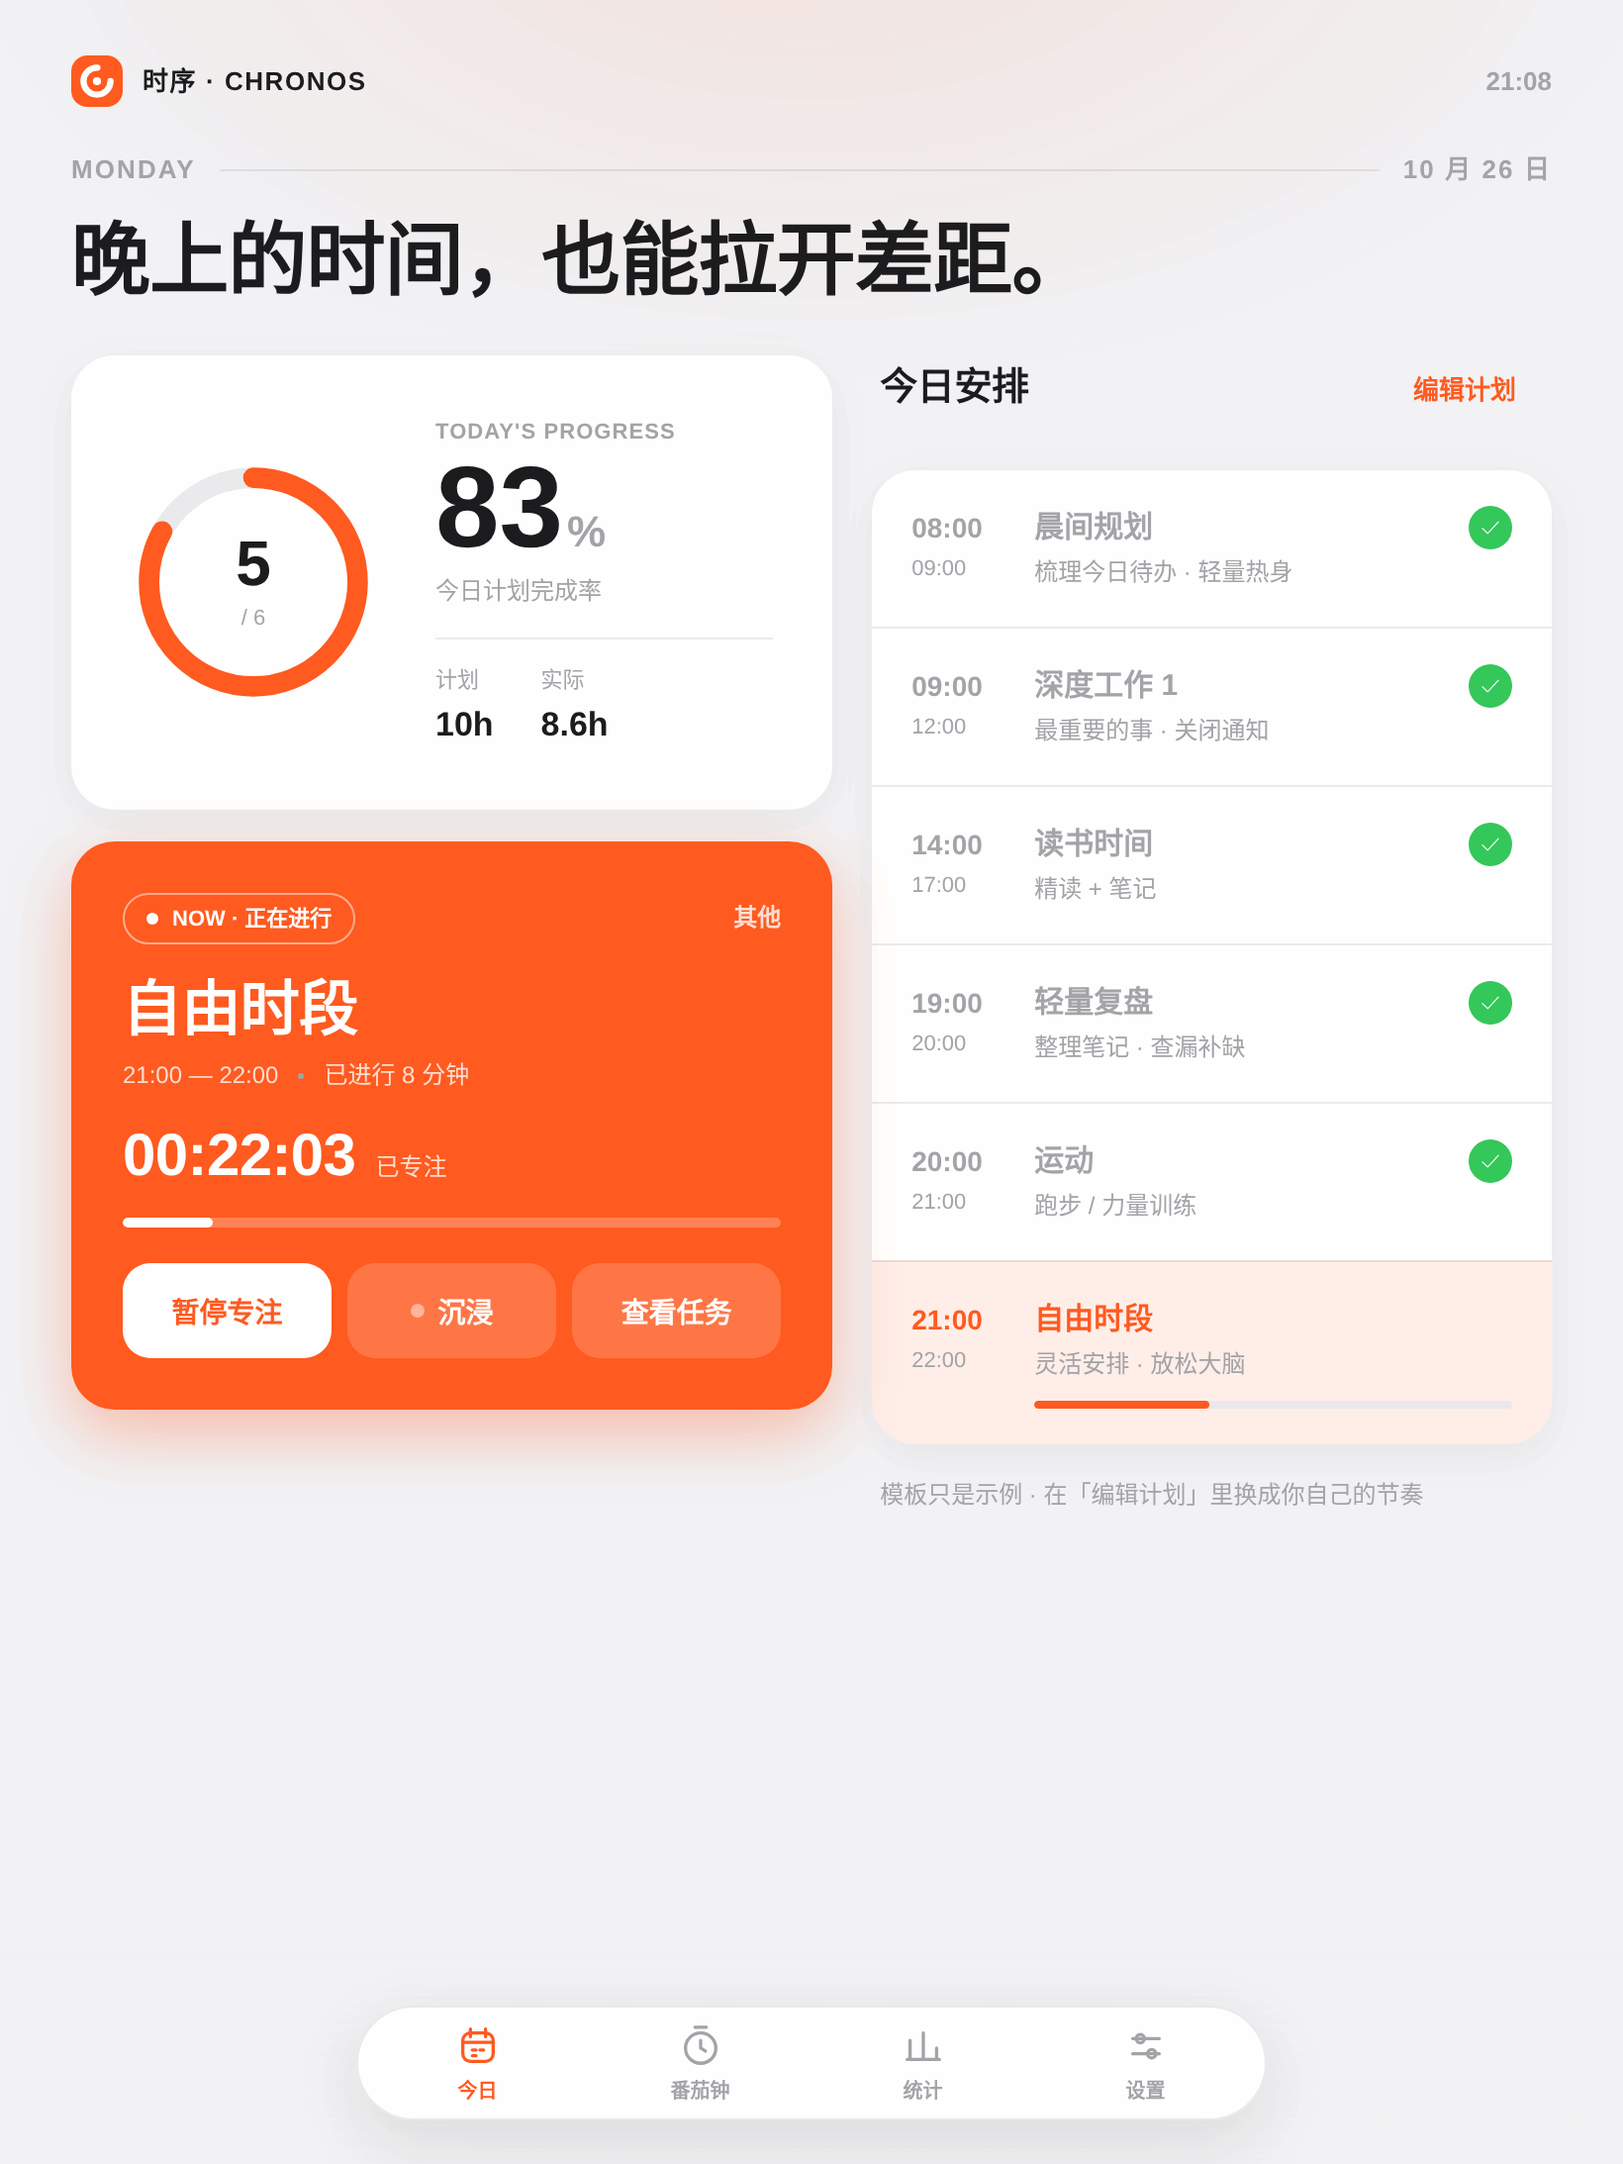
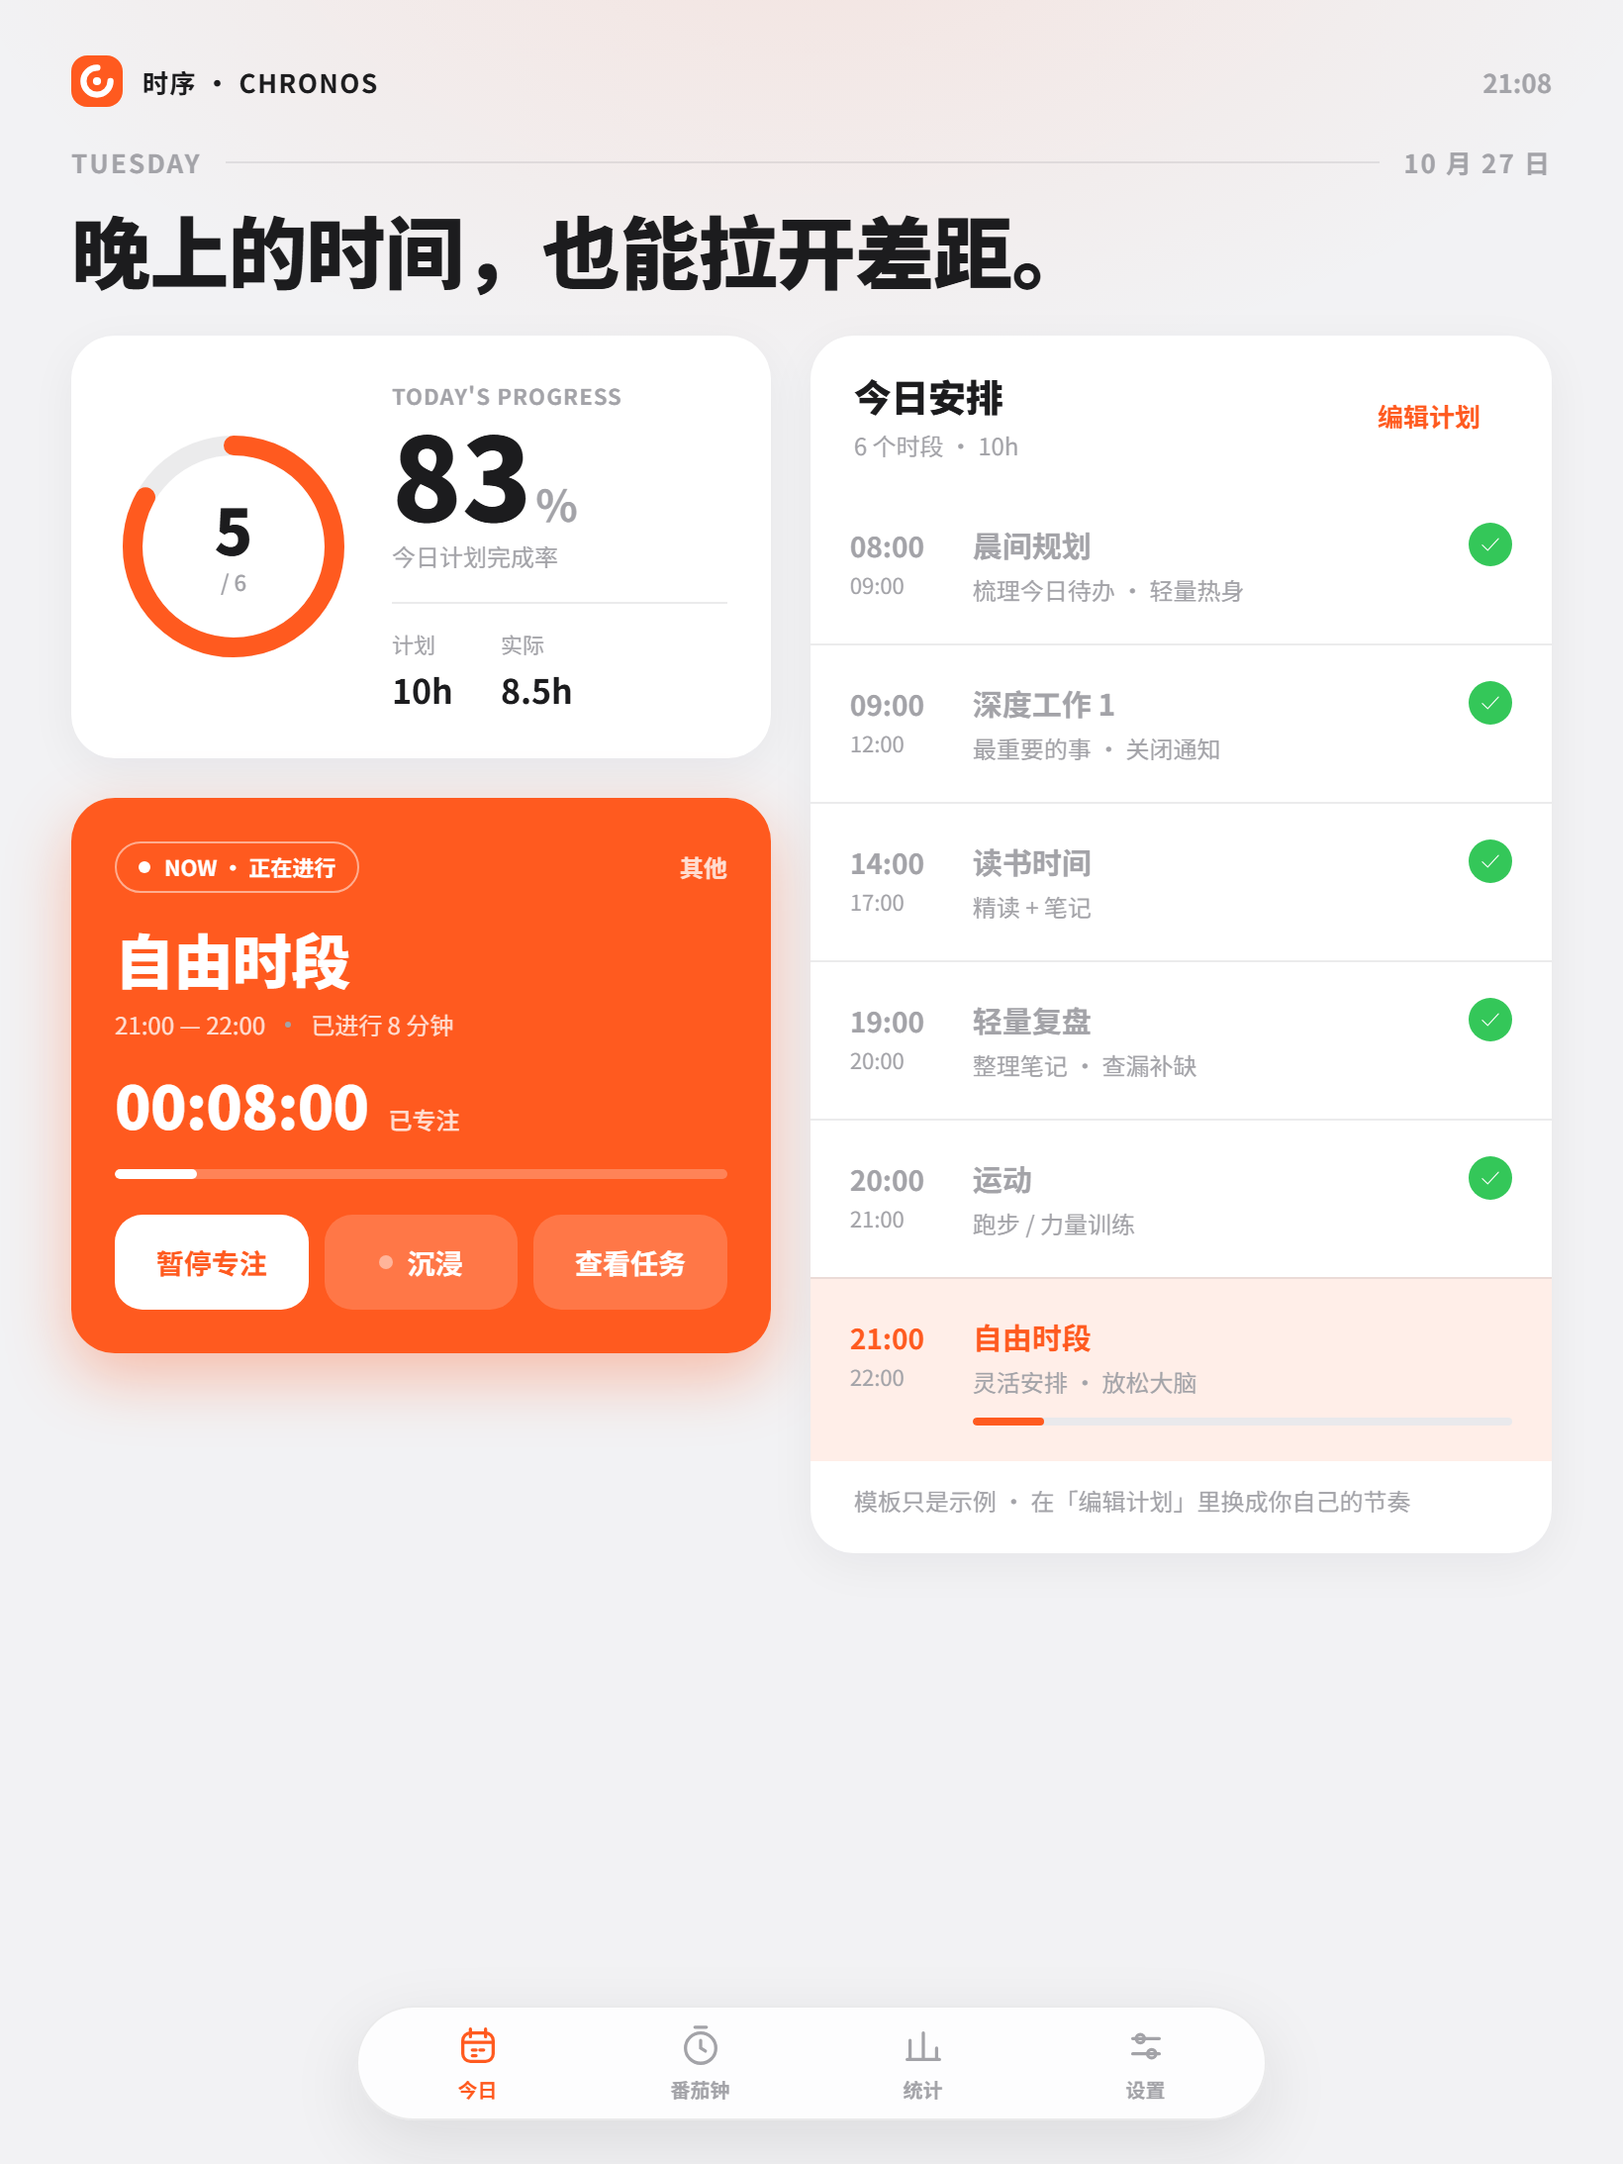
2.6.2：首页卡片布局重排，修复 APK assets 路径
- 「今日安排」标题收进卡片，平板两列卡片从同一条基线开始，卡片内边距/间距统一
- 小屏压缩进度卡并调整标题字号，首屏即可看到今日安排；空计划有占位提示
- 修复 Windows 版 aapt2 将 assets 写成反斜杠、WebView 报 ERR_FILE_NOT_FOUND：改用 jar 打包 assets，同时去掉对 zip 的依赖
- 版本 2.6.2 / versionCode 17

diff --git a/app/src/main/assets/www/styles.css b/app/src/main/assets/www/styles.css
@@ -39,6 +39,10 @@
   --ease: cubic-bezier(.32, .72, 0, 1);
   --spring: cubic-bezier(.34, 1.42, .64, 1);
   --maxw: 1160px;
+
+  /* 首页统一的卡片内边距与卡片间距：所有卡片/行共用，保证左边缘与节奏一致 */
+  --pad-card: 20px;
+  --gap-card: 16px;
 }
 
 [data-theme="dark"] {
@@ -154,7 +158,7 @@ body:not(.motion) .pages { transition: none; }
 .live-clock { margin-left: auto; font-size: 13px; font-weight: 600; color: var(--ink-3); font-variant-numeric: tabular-nums; }
 
 .date-line {
-  margin-top: 22px;
+  margin-top: 18px;
   display: flex; align-items: center; gap: 12px;
   font-size: 13px; font-weight: 600;
   color: var(--ink-3);
@@ -163,8 +167,8 @@ body:not(.motion) .pages { transition: none; }
 .date-line .sep { flex: 1; height: 1px; background: var(--hairline); }
 
 .home-head h1 {
-  margin: 10px 0 22px;
-  font-size: clamp(26px, 6.5vw, 34px);
+  margin: 8px 0 18px;
+  font-size: clamp(24px, 6.4vw, 34px);
   font-weight: 800;
   line-height: 1.3;
   letter-spacing: -.01em;
@@ -225,8 +229,8 @@ body:not(.motion) .pages { transition: none; }
 .ghost-btn:active { transform: scale(.95); }
 
 /* ============ 今日 · 进度卡 ============ */
-.progress-card { display: flex; align-items: center; gap: 24px; padding: 24px; }
-.ring-wrap { position: relative; width: 108px; height: 108px; flex: none; }
+.progress-card { display: flex; align-items: center; gap: 20px; padding: var(--pad-card); }
+.ring-wrap { position: relative; width: 104px; height: 104px; flex: none; }
 .ring { width: 100%; height: 100%; transform: rotate(-90deg); }
 .ring circle { fill: none; }
 .ring-bg { stroke: var(--hairline); stroke-width: 10; }
@@ -247,7 +251,7 @@ body:not(.motion) .pages { transition: none; }
 
 .progress-meta { flex: 1; min-width: 0; }
 .progress-meta .big {
-  font-size: 50px; font-weight: 800; line-height: 1.05; color: var(--ink);
+  font-size: clamp(40px, 12vw, 50px); font-weight: 800; line-height: 1.05; color: var(--ink);
   font-variant-numeric: tabular-nums;
 }
 .progress-meta .big i { font-style: normal; font-size: 22px; font-weight: 600; color: var(--ink-3); margin-left: 2px; }
@@ -261,7 +265,7 @@ body:not(.motion) .pages { transition: none; }
 .micro-stats b { display: block; font-size: 17px; font-weight: 700; color: var(--ink); margin-top: 2px; font-variant-numeric: tabular-nums; }
 
 /* ============ 今日 · 当前任务卡 ============ */
-#nowCard, .focus-mini { padding: 20px; }
+#nowCard, .focus-mini { padding: var(--pad-card); }
 .now-card { transition: background .3s var(--ease), box-shadow .3s var(--ease); }
 .now-card.is-lit {
   background: var(--accent);
@@ -320,6 +324,21 @@ body:not(.motion) .pages { transition: none; }
 .now-empty h3 { margin: 10px 0 4px; font-size: 16px; font-weight: 700; color: var(--ink); }
 .now-empty p { margin: 0; font-size: 13px; color: var(--ink-3); line-height: 1.6; }
 
+/* 小屏：进度卡收成一行，别把「今日安排」挤到折叠线以下 */
+@media (max-width: 520px) {
+  .progress-card { padding: 16px; gap: 14px; }
+  .ring-wrap { width: 84px; height: 84px; }
+  .ring-center b { font-size: 24px; }
+  .ring-center span { font-size: 10px; margin-top: 1px; }
+  .progress-meta .big { font-size: 40px; }
+  .progress-meta .big i { font-size: 18px; }
+  .progress-meta .sub { font-size: 11px; margin-top: 2px; }
+  .micro-stats { margin-top: 8px; padding-top: 8px; gap: 18px; }
+  .micro-stats i { font-size: 10px; }
+  .micro-stats b { font-size: 15px; }
+  .schedule-head { padding-top: 14px; padding-bottom: 10px; }
+}
+
 /* ============ 今日 · 专注迷你卡（番茄 + 极度沉浸） ============ */
 .focus-mini { display: flex; flex-direction: column; gap: 14px; }
 .fm-head { display: flex; align-items: flex-start; justify-content: space-between; gap: 12px; }
@@ -362,22 +381,23 @@ body:not(.motion) .pages { transition: none; }
 .fm-actions .btn-ghost { flex: 1; }
 
 /* ============ 今日 · 布局 ============ */
-.home-grid, .home-main, .home-side { display: flex; flex-direction: column; gap: 16px; }
+.home-grid, .home-main, .home-side { display: flex; flex-direction: column; gap: var(--gap-card); }
 .home-grid { max-width: var(--maxw); margin: 0 auto; }
 
-.section-head { display: flex; align-items: center; justify-content: space-between; padding: 0 4px 10px; }
-.section-head h2 { margin: 0; font-size: 19px; font-weight: 800; letter-spacing: -.01em; }
-.footnote { padding: 0 4px; font-size: 12px; color: var(--ink-3); line-height: 1.7; }
+/* 今日安排：标题与列表同卡，平板下两列卡片从同一条基线开始 */
+.schedule-card { overflow: hidden; padding: 0; }
+.schedule-head {
+  display: flex; align-items: center; justify-content: space-between; gap: 14px;
+  padding: 16px var(--pad-card) 12px;
+}
+.schedule-title { min-width: 0; }
+.schedule-head h2 { margin: 0; font-size: 19px; font-weight: 800; letter-spacing: -.01em; }
+.schedule-meta { margin-top: 2px; font-size: 12px; color: var(--ink-3); }
+.footnote { padding: 10px var(--pad-card) 16px; font-size: 12px; color: var(--ink-3); line-height: 1.7; }
 
 /* ============ 今日 · 时间线（iOS 分组列表） ============ */
-.timeline {
-  background: var(--card);
-  border-radius: var(--r-card);
-  box-shadow: var(--shadow);
-  overflow: hidden;
-}
-[data-theme="dark"] .timeline { border: 1px solid var(--hairline); box-shadow: none; }
-.tl-item { position: relative; display: flex; gap: 14px; padding: 15px 18px; cursor: pointer; transition: background .15s; }
+.timeline { overflow: hidden; }
+.tl-item { position: relative; display: flex; gap: 14px; padding: 15px var(--pad-card); cursor: pointer; transition: background .15s; }
 .tl-item:active { background: var(--card-2); }
 .tl-item + .tl-item { border-top: 1px solid var(--hairline); }
 .tl-time { flex: none; width: 48px; padding-top: 1px; }
@@ -975,8 +995,9 @@ body:not(.motion) .sheet-panel, body:not(.motion) .sheet-backdrop { transition: 
 }
 
 @media (min-width: 760px) and (min-height: 600px) {
+  :root { --pad-card: 22px; --gap-card: 20px; }
   .scroll { padding: calc(var(--sat) + 28px) 36px calc(var(--sab) + 128px); }
-  .home-grid { display: grid; grid-template-columns: 1.12fr 1fr; gap: 20px; align-items: start; }
+  .home-grid { display: grid; grid-template-columns: 1fr 1.06fr; gap: var(--gap-card); align-items: start; }
   .focus-grid { display: grid; grid-template-columns: 1.05fr 1fr; gap: 20px; align-items: start; }
   .stats-grid { display: grid; grid-template-columns: 1fr 1fr; gap: 18px; }
   .stats-grid .span-2, .stat-hero { grid-column: span 2; }
@@ -1020,11 +1041,9 @@ body:not(.motion) .sheet-panel, body:not(.motion) .sheet-backdrop { transition: 
 @media (min-width: 760px) and (min-height: 900px) {
   html, body { font-size: 15px; }
   .home-head h1 { font-size: 40px; }
-  .progress-card { padding: 30px; gap: 30px; }
-  .ring-wrap { width: 124px; height: 124px; }
+  .ring-wrap { width: 120px; height: 120px; }
   .ring-center b { font-size: 32px; }
   .progress-meta .big { font-size: 58px; }
-  #nowCard, .focus-mini { padding: 26px; }
   .now-title { font-size: 30px; }
   .now-timer b { font-size: 48px; }
   .tl-item { padding: 18px 20px; }

diff --git a/app/src/main/assets/www/index.html b/app/src/main/assets/www/index.html
@@ -64,12 +64,17 @@
           </div>
 
           <div class="home-side">
-            <div class="section-head">
-              <h2>今日安排</h2>
-              <button class="ghost-btn" id="editPlanBtn">编辑计划</button>
-            </div>
-            <div class="timeline" id="timeline"></div>
-            <div class="footnote" id="footnote">模板只是示例 · 在「编辑计划」里换成你自己的节奏</div>
+            <section class="schedule-card glass">
+              <div class="schedule-head">
+                <div class="schedule-title">
+                  <h2>今日安排</h2>
+                  <div class="schedule-meta" id="scheduleMeta">--</div>
+                </div>
+                <button class="ghost-btn" id="editPlanBtn">编辑计划</button>
+              </div>
+              <div class="timeline" id="timeline"></div>
+              <div class="footnote" id="footnote">模板只是示例 · 在「编辑计划」里换成你自己的节奏</div>
+            </section>
           </div>
         </div>
       </div>
@@ -371,7 +376,7 @@
               </div>
               <div class="about-title">时序 · Chronos</div>
               <div class="about-sub">让每一段时间，都有明确的方向。</div>
-              <div class="about-ver" id="aboutVer">Version 2.6.1 · 个人版</div>
+              <div class="about-ver" id="aboutVer">Version 2.6.2 · 个人版</div>
               <div class="about-hint" id="envHint"></div>
             </div>
           </div>

diff --git a/app/src/main/assets/www/app.js b/app/src/main/assets/www/app.js
@@ -348,6 +348,8 @@ function renderHome() {
   const actual = tasks.reduce((a, t) => a + taskSeconds(t), 0);
   $('#planText').textContent = hText(planned);
   $('#actualText').textContent = hText(actual);
+  const scheduleMeta = $('#scheduleMeta');
+  if (scheduleMeta) scheduleMeta.textContent = `${total} 个时段 · ${hText(planned)}`;
 
   const circumference = 2 * Math.PI * 51;
   const ring = $('#ringFg');
@@ -470,6 +472,11 @@ function renderTimeline() {
   if (!rec) return;
   const info = currentInfo(rec);
   const tasks = (rec.tasks || []).slice().sort((a, b) => a.start - b.start);
+
+  if (!tasks.length) {
+    wrap.innerHTML = '<div class="empty-state">今天还没有安排。<br>点右上角「编辑计划」添加时段。</div>';
+    return;
+  }
 
   wrap.innerHTML = tasks.map((t, i) => {
     const isNow = info.task && info.task.id === t.id && (info.mode === 'active' || info.mode === 'doing');

diff --git a/README.md b/README.md
@@ -8,7 +8,7 @@
 
 为考研冲刺打造的 Android 时间管理应用 —— 计划、专注、复盘，一个闭环。
 
-[![version](https://img.shields.io/badge/version-2.6.1-FF5A1F?style=flat-square)]()
+[![version](https://img.shields.io/badge/version-2.6.2-FF5A1F?style=flat-square)]()
 [![platform](https://img.shields.io/badge/platform-Android%208.0%2B-3DDC84?style=flat-square)]()
 [![deps](https://img.shields.io/badge/deps-zero-0074D9?style=flat-square)]()
 [![build](https://img.shields.io/badge/build-No%20Gradle-24292E?style=flat-square)]()
@@ -100,7 +100,7 @@ cd chronos
 | JDK | 11+ |
 | Android SDK Build-Tools | 35.0.0 |
 | Android SDK Platform | android-35 |
-| zip / keytool | 随 JDK / 系统 |
+| jar / keytool | 随 JDK |
 
 将两者解压至 `/opt/android-sdk/build-tools/35.0.0` 与 `/opt/android-sdk/platforms/android-35`（或修改 `build.sh` 开头的路径变量）。
 
@@ -114,7 +114,7 @@ cd chronos
 
 这个项目刻意做了一些**反潮流**的选择：
 
-- **无 Gradle** —— 整个构建是 60 行的 `build.sh`：`aapt2 → javac → d8 → zipalign → apksigner`，一条链路，全透明
+- **无 Gradle** —— 整个构建是不到 100 行的 `build.sh`：`aapt2 → javac → d8 → zipalign → apksigner`，一条链路，全透明
 - **零依赖** —— 不用 React / Flutter / Compose，原生 `Java + WebView`，APK 不足 100 KB
 - **双保险持久化** —— `localStorage`（前端）与 `SharedPreferences`（原生）互为备份，WebView 存储被清也能恢复（卸载仍会清除，需自行导出）
 - **时间戳驱动计时** —— 计时基于 `Date.now()` 差值而非 setInterval 累加，杀进程也不丢秒数
@@ -145,6 +145,7 @@ chronos/
 
 | 版本 | 内容 |
 |:---|:---|
+| **2.6.2** | 首页布局重排：「今日安排」标题收进卡片，平板两列卡片对齐同一条基线，卡片内边距与间距统一；小屏压缩进度卡，首屏就能看到今日安排。修复 Windows 版 aapt2 把 assets 写成反斜杠、WebView 报 `ERR_FILE_NOT_FOUND` 的问题（改用 jar 打包 assets） |
 | **2.6.1** | 省电与流畅：息屏时暂停前台应用轮询；番茄页 / 统计页改为切页时按需渲染；闹钟按签名去重，不再每次保存全量重建。修复：键盘遮挡弹层表单、返回键直达退出、跨天未停的计时无限累加、跳过 / 删除任务不停表、完成态补时暂停后退回待开始、番茄与任务计时对同一任务重复计时、详情页日均口径不一致 |
 | **2.6.0** | 番茄钟加入极简专注界面（全屏计时 + 激励语）；首页橙色卡片内置换开沉浸开关；首页移除番茄钟迷你卡；导航「专注」更名「番茄钟」 |
 | **2.5.3** | 重绘通知 / 状态栏小图标：环占满 24dp、缺口收到 45°，状态栏下不再糊成一个「C」 |
